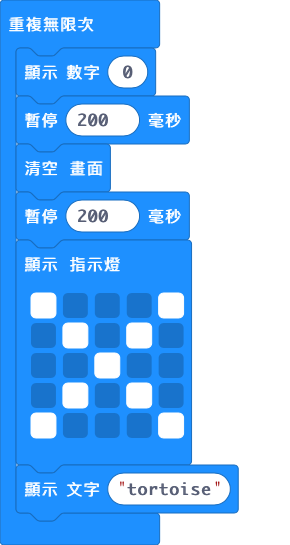
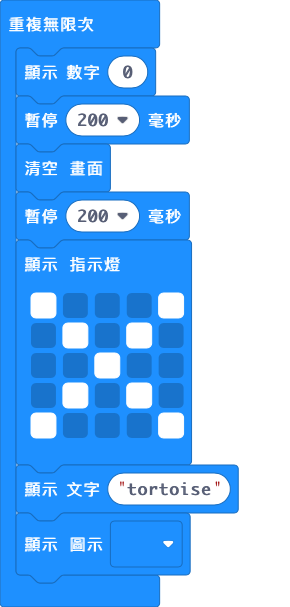
Update main.blocks, main.ts, main.py

Changed region(s): [[0.031, 0.0, 0.8379, 0.967], [0.6517, 0.3743, 0.6828, 0.4367]]

diff --git a/main.ts b/main.ts
@@ -11,4 +11,5 @@ basic.forever(function () {
         # . . . #
         `)
     basic.showString("tortoise")
+    basic.showIcon(IconNames.Heart)
 })

diff --git a/main.py b/main.py
@@ -3,5 +3,12 @@ def on_forever():
     basic.pause(200)
     basic.clear_screen()
     basic.pause(200)
+    basic.show_leds("""
+        # . . . #
+        . # . # .
+        . . # . .
+        . # . # .
+        # . . . #
+        """)
     basic.show_string("tortoise")
 basic.forever(on_forever)
